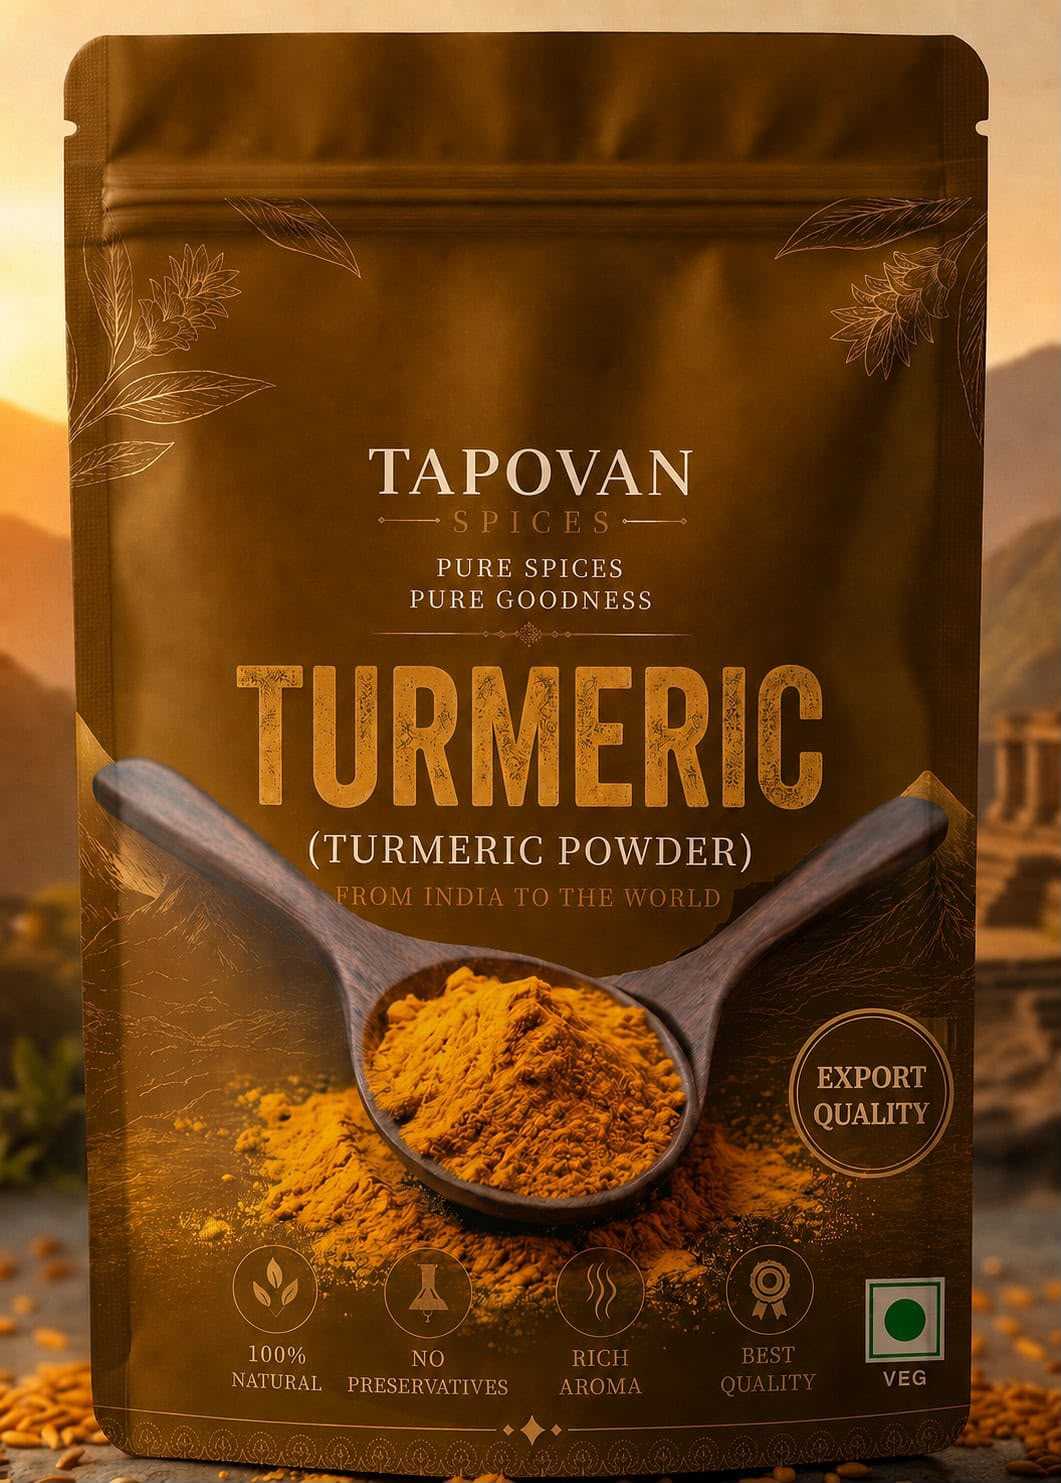
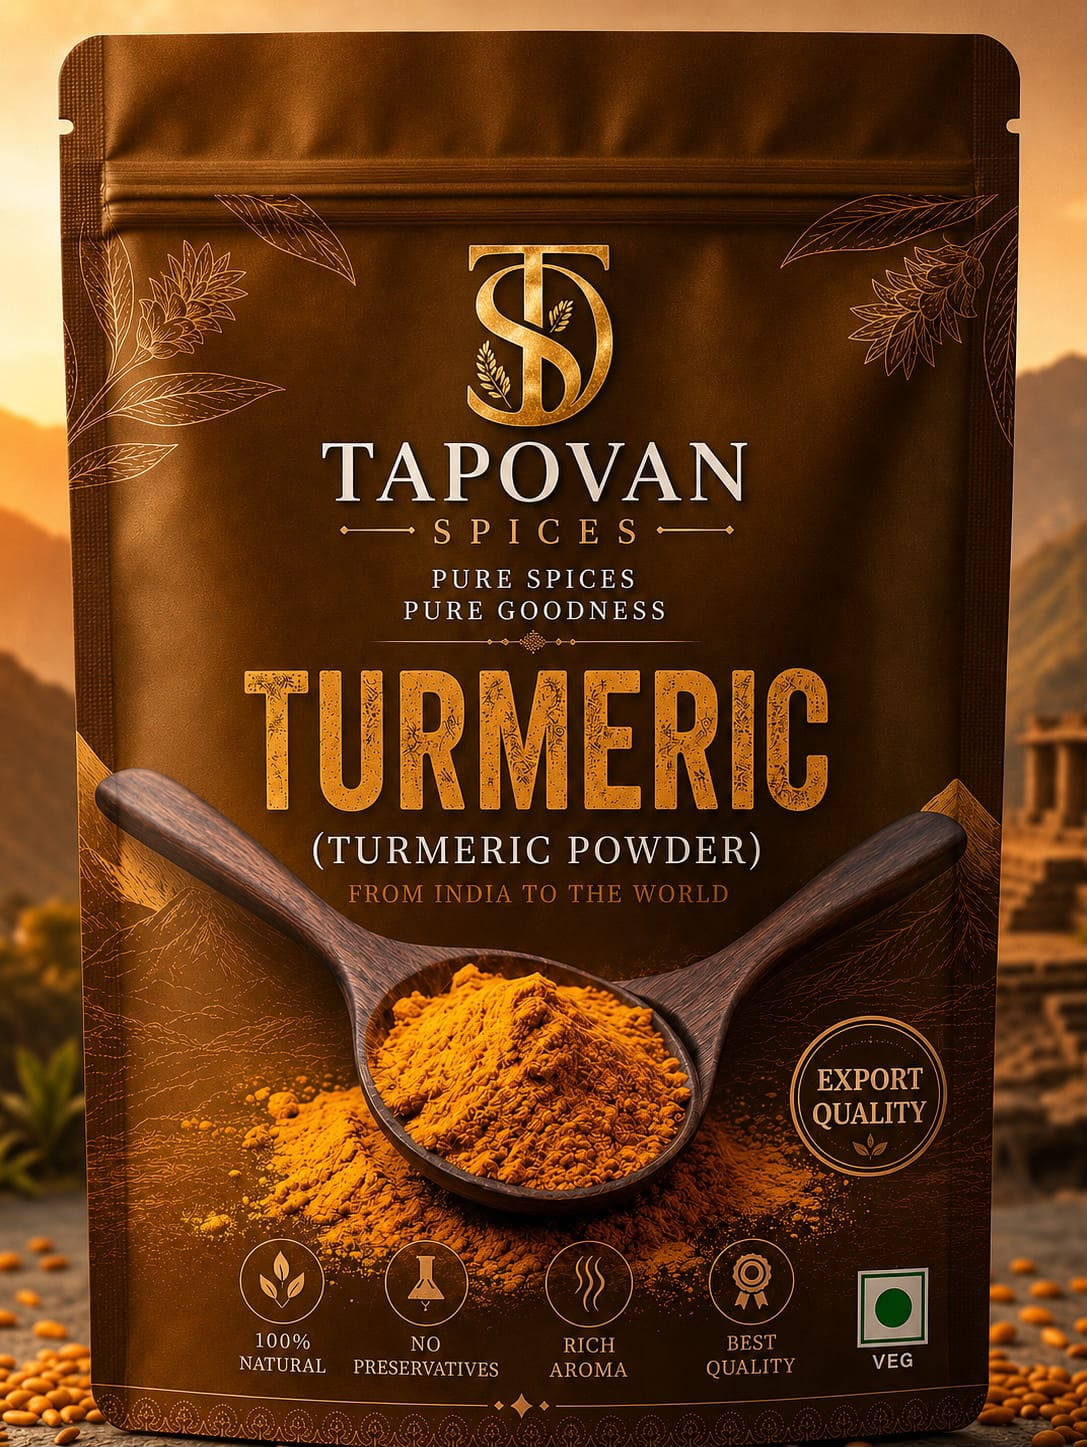
feat: add ProductDetailPage component, supporting data, and product imagery

diff --git a/src/data/content.js b/src/data/content.js
@@ -176,9 +176,9 @@ export const products = [
   // SEEDS & OTHERS
   {
     id: 20,
-    name: 'Sesame Seed',
-    subtitle: 'Whole White Sesame Seeds',
-    nameHindi: 'Til',
+    name: 'Black Sesame Seed',
+    subtitle: 'Whole Black Sesame Seeds',
+    nameHindi: 'Kala Til',
     category: 'Seeds',
     description: 'Natural | Nutritious | High Quality',
     image: '/products/sesame-seed.jpeg',
@@ -200,6 +200,15 @@ export const products = [
     category: 'Seeds',
     description: 'Natural | Dietary Fiber | Premium Quality',
     image: '/products/psyllium-husk-isabgol-whole-husk.jpeg',
+  },
+  {
+    id: 23,
+    name: 'White Sesame Seeds',
+    subtitle: 'Unpolished White Sesame',
+    nameHindi: 'Safed Til',
+    category: 'Seeds',
+    description: 'Premium | Rich Flavor | Export Quality',
+    image: '/products/white sasame.jpeg',
   },
 ];
 

diff --git a/src/components/ProductDetailPage.jsx b/src/components/ProductDetailPage.jsx
@@ -42,7 +42,7 @@ const getSpecs = (p) => {
       purity: '99% Cleaned & De-stoned',
       aroma: 'Earthy, Sweet & Pure',
       grade: 'Premium Cleaned Grade',
-      sensory: { intensity: 85, purity: 99.0, freshness: 97 }
+      sensory: { intensity: 85, purity: 99.9, freshness: 97 }
     }
   }
 }